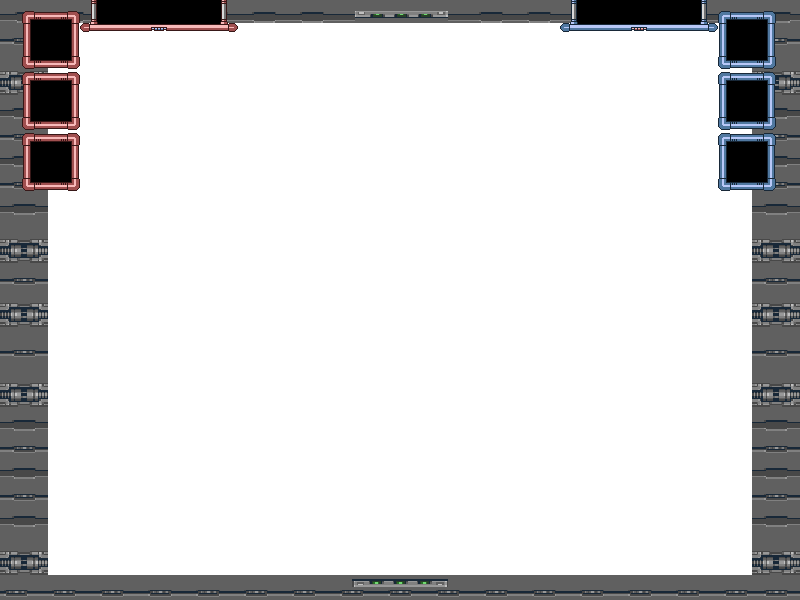
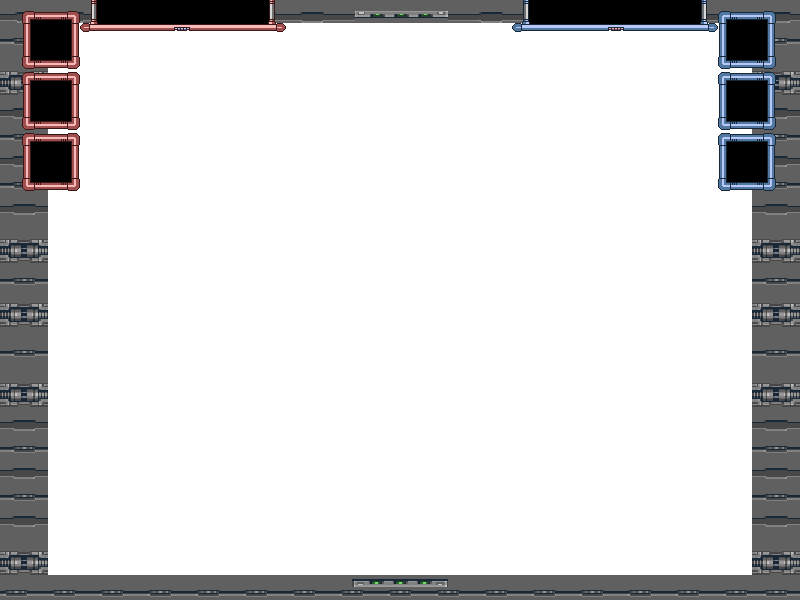
Hud common score markers and gfx changes

diff --git a/minigames/spingame.py b/minigames/spingame.py
@@ -22,7 +22,7 @@ class SpinGame(minigame.Minigame):
         self.difficulty = game.difficulty if game.difficulty < 5 else 5
         self.max_duration = 1000 * (8-self.difficulty)
         self.width, self.height = self.screen.get_size()
-        self.player_turns = [0, 0]
+        self.score = [0, 0]
         self.player_positions = [[0, 0, 0, 0], [0, 0, 0, 0]]
         self.font = pygame.font.Font('res/font/ps2p.ttf', 16)
         self.counter = 0
@@ -36,19 +36,15 @@ class SpinGame(minigame.Minigame):
 
     def get_results(self):
         results = [False, False]
-        for player_turn in self.player_turns:
+        for player_turn in self.score:
             if player_turn >= 7:
-                results[self.player_turns.index(player_turn)] = True
+                results[self.score.index(player_turn)] = True
         return results
 
     def draw(self):
         self.screen.fill((0, 0, 0))
         pygame.draw.rect(self.screen, (255, 255, 255), pygame.Rect(self.width/2-2, 0, 4, self.height))
         for i in range(2):
-            txt = self.font.render(self.game.players[i].university + ': '+str(self.player_turns[i])+' Turns', 0, (255, 0, 0) if i == 0 else (0, 0, 255))
-            rect = txt.get_rect()
-            rect.topleft = (200 - rect.width/2 + i*400, 50)
-            self.screen.blit(txt, rect)
             self.screen.blit(SpinGame.IMAGES[self.player_positions[i][-1]], pygame.Rect(152 + i*400, 220, 96, 160))
 
         self.screen.blit(self.text, self.text_rect)
@@ -75,6 +71,6 @@ class SpinGame(minigame.Minigame):
             del self.player_positions[player][0]
         positions = self.player_positions[player]
         if positions[0] < positions[1] < positions[2] < positions[3]:
-            self.player_turns[player] += 1
+            self.score[player] += 1
         elif positions[0] > positions[1] > positions[2] > positions[3]:
-            self.player_turns[player] += 1
+            self.score[player] += 1

diff --git a/minigames/minigame.py b/minigames/minigame.py
@@ -1,7 +1,7 @@
 from itertools import cycle
 import pygame
 from pygame.rect import Rect
-from game_states.OverlayedState import OverlayedState
+from game_states.overlay_state import OverlayedState
 
 SINGLEPLAYER = 1
 MULTIPLAYER = 2
@@ -65,8 +65,15 @@ class Minigame:
         self.frame += 1
 
     def display_score_markers(self):
-        self.game.border.blit(self.score_marker_1, self.score_marker_1.get_rect(topleft=(350, 5)))
-        self.game.border.blit(self.score_marker_2, self.score_marker_2.get_rect(topleft=(450, 5)))
+        font = pygame.font.Font('res/font/ps2p.ttf', 13)
+        p1_score_text = font.render(str(self.score[0]), 0, (255, 0, 0))
+        p2_score_text = font.render(str(self.score[1]), 0, (0, 0, 255))
+
+        self.game.border.blit(self.score_marker_1, self.score_marker_1.get_rect(topright=(354, 5)))
+        self.game.border.blit(self.score_marker_2, self.score_marker_2.get_rect(topleft=(448, 5)))
+
+        self.game.border.blit(p1_score_text, p1_score_text.get_rect(topright=(345, 20)))
+        self.game.border.blit(p2_score_text, p2_score_text.get_rect(topleft=(463, 20)))
 
     def display_overlay(self):
         self.sec_left = int((self.get_duration() - self.elapsed_ms)/1000)

diff --git a/minigames/shoot_targets/shoot_targets.py b/minigames/shoot_targets/shoot_targets.py
@@ -14,7 +14,7 @@ class ShootTargets(minigame.Minigame):
         minigame.Minigame.__init__(self, game)
 
         self.screen_rect = self.screen.get_rect()
-
+        self.score = [0, 0]
         self.sprites = []
         self.players = [Player(self, 0), Player(self, 1)]
         self.targets = generate_targets(self)
@@ -24,6 +24,9 @@ class ShootTargets(minigame.Minigame):
                 self.players[0].points <= self.players[1].points]
 
     def tick(self):
+        self.score[0] = self.players[0].points
+        self.score[1] = self.players[1].points
+
         keys = pygame.key.get_pressed()
 
         for i, player in enumerate(self.players):
@@ -61,11 +64,3 @@ class ShootTargets(minigame.Minigame):
 
         for entity in entities:
             entity.render()
-
-        self.game.gfx.print_msg(str(self.players[0].points),
-                                topleft=(40, 40),
-                                color=(255, 0, 0))
-
-        self.game.gfx.print_msg(str(self.players[1].points),
-                                topright=(self.screen_rect.width - 40, 40),
-                                color=(0, 255, 255))

diff --git a/minigames/leprechaunBeatemUp/leprechaunBeatemUp.py b/minigames/leprechaunBeatemUp/leprechaunBeatemUp.py
@@ -17,6 +17,7 @@ class LeprechaunBeatemUp(multiplayer.Minigame):
         self.height = game.GAME_HEIGHT
 
     def init(self):
+        self.score = [0, 0]
         self.rainbow = pygame.image.load("./res/img/leprechaunBeatemUp/Background.png").convert()
         self.coin = pygame.image.load("./res/img/leprechaunBeatemUp/Coin.png").convert_alpha()
 
@@ -27,6 +28,9 @@ class LeprechaunBeatemUp(multiplayer.Minigame):
         self.currentTime = pygame.time.get_ticks()/1000.0
 
     def tick(self):
+        self.score[0] = self.players[0].money
+        self.score[1] = self.players[1].money
+
         self.events()
         self.update(pygame.time.get_ticks()/1000.0 - self.currentTime)
         self.draw()
@@ -63,11 +67,6 @@ class LeprechaunBeatemUp(multiplayer.Minigame):
 
         for coin in self.coins:
             coin.draw(self.screen)
-
-        self.screen.blit(self.coin, (60, 25))
-        self.screen.blit(self.coin, (660,25))
-        self.gfx.print_msg(str(self.players[0].money), (30, 30))
-        self.gfx.print_msg(str(self.players[1].money), (700, 30))
 
     def events(self):
         pygame.event.get()

diff --git a/game_states/overlay_state.py b/game_states/overlay_state.py
@@ -12,15 +12,15 @@ class OverlayedState:
         player1_name = self.font.render(self.game.players[0].university, 0, (255, 0, 0))
         player2_name = self.font.render(self.game.players[1].university, 0, (0, 0, 255))
 
-        self.game.border.blit(self.border_gfx, (0,0))
+        self.game.border.blit(self.border_gfx, (0, 0))
 
         # Display players names
-        self.game.border.blit(player1_name, player1_name.get_rect(topleft=(98, 5)))
-        self.game.border.blit(player2_name, player2_name.get_rect(topleft=(578, 5)))
+        self.game.border.blit(player1_name, player1_name.get_rect(topleft=(99, 5)))
+        self.game.border.blit(player2_name, player2_name.get_rect(topleft=(530, 5)))
 
         # Display player lives
         for i in range(self.game.players[0].lives):
             self.game.border.blit(self.heart, self.heart.get_rect(topleft=(31, 23 + i * 61)))
 
-        for i in range(self.game.players[0].lives):
+        for i in range(self.game.players[1].lives):
             self.game.border.blit(self.heart, self.heart.get_rect(topleft=(727, 23 + i * 61)))

diff --git a/game_states/minigame.py b/game_states/minigame.py
@@ -2,7 +2,7 @@ from datetime import datetime, timedelta
 import pygame
 from pygame.constants import USEREVENT
 from pygame.time import Clock
-from game_states.OverlayedState import OverlayedState
+from game_states.overlay_state import OverlayedState
 import splash
 
 class Minigame(OverlayedState):

diff --git a/game_states/splash.py b/game_states/splash.py
@@ -2,7 +2,7 @@ import pygame
 from pygame.locals import *
 from datetime import datetime, timedelta
 import random
-from game_states.OverlayedState import OverlayedState
+from game_states.overlay_state import OverlayedState
 import minigame
 import endgame
 import gfx

diff --git a/game.py b/game.py
@@ -3,7 +3,7 @@ import pygame
 import sys
 import random
 from pygame.rect import Rect
-from game_states.OverlayedState import OverlayedState
+from game_states.overlay_state import OverlayedState
 import player
 import minigames
 from game_states import menu
